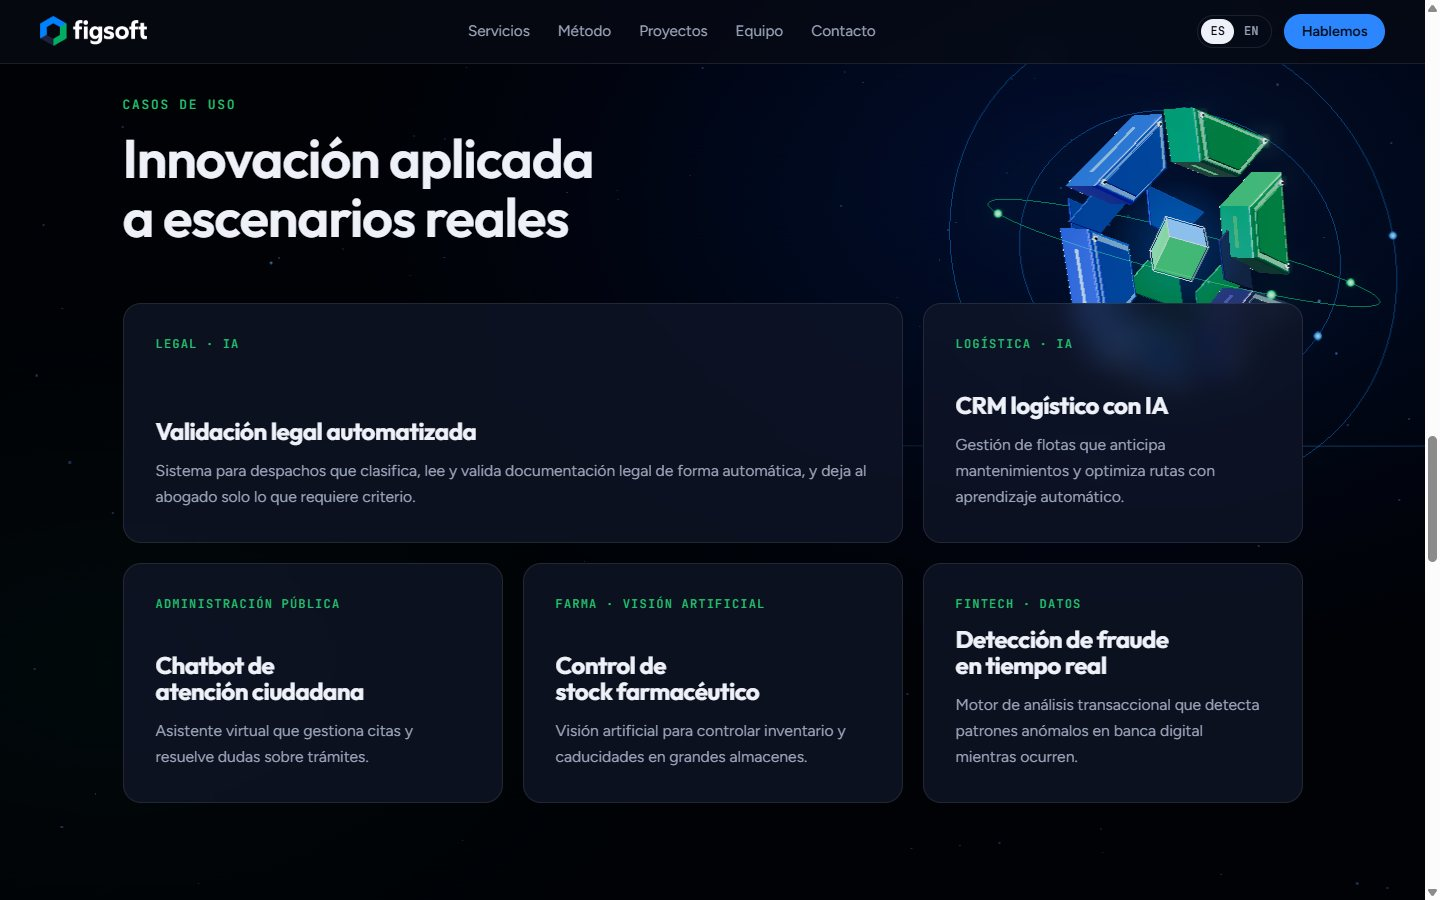
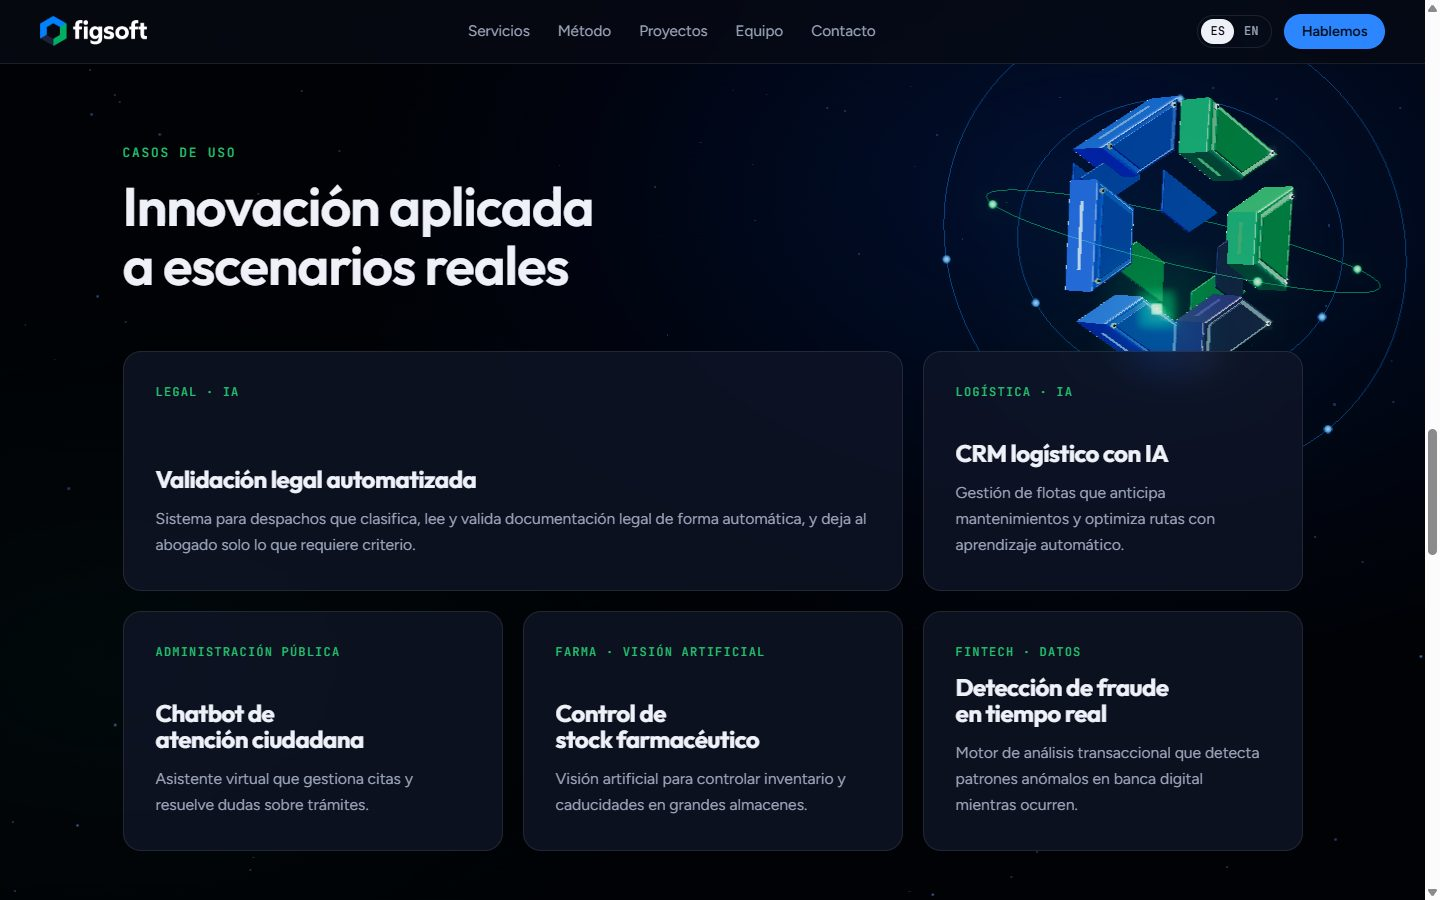
Escena 3D: quita el cubo central y rehace el ensamblado y el giro por pasos
El centro del isotipo vuelve a quedar vacío, como en el logotipo. El ensamblado
de entrada es ahora escalonado, con rebote y destello en cada pieza; el giro del
método usa un muelle y se elimina el vaivén. README y capturas actualizados.

Claude-Session: https://claude.ai/code/session_014JvWStt7UZUV3uJTwEGxxS

diff --git a/scene.js b/scene.js
@@ -1,6 +1,6 @@
 // Escena 3D de Figsoft.
 // El isotipo del logotipo se modela como un objeto físico: seis piezas biseladas con paneles,
-// tornillos y tiras de luz, y un núcleo de cristal en el centro. Alrededor, órbitas con paquetes
+// tornillos y tiras de luz. El centro queda vacío, como en el logotipo. Alrededor, órbitas con paquetes
 // de datos. El scroll no lo "da vueltas": lo coreografía, de pieza en pieza, con cada sección.
 import * as THREE from "three";
 import { EffectComposer } from "three/addons/postprocessing/EffectComposer.js";
@@ -16,6 +16,7 @@ const R = 1.32, r = 0.66, DEPTH = 0.58;
 
 const clamp = (v, a, b) => Math.min(b, Math.max(a, v));
 const lerp = (a, b, t) => a + (b - a) * t;
+const easeOutBack = (t) => 1 + 2.2 * Math.pow(t - 1, 3) + 1.2 * Math.pow(t - 1, 2);
 const ease = (t) => (t < 0.5 ? 4 * t * t * t : 1 - Math.pow(-2 * t + 2, 3) / 2);
 const damp = (a, b, k, dt) => lerp(a, b, 1 - Math.exp(-k * dt));
 
@@ -129,29 +130,6 @@ function buildMark() {
   return { rig, segs };
 }
 
-// Núcleo: un cubo isométrico con las tres caras del logotipo (azul, verde y azul marino) que brillan.
-function buildCore() {
-  const g = new THREE.Group();
-  const face = (c, k) => new THREE.MeshBasicMaterial({ color: new THREE.Color(c).multiplyScalar(k), toneMapped: false });
-  // Orden de caras de BoxGeometry: +x, -x, +y, -y, +z, -z
-  const mats = [face(GREEN, 1.7), face(NAVY, 1.1), face(BLUE, 2.4), face(NAVY, 0.8), face(BLUE, 1.5), face(GREEN, 0.9)];
-  const cube = new THREE.Mesh(new THREE.BoxGeometry(0.5, 0.5, 0.5), mats);
-  const edges = new THREE.LineSegments(new THREE.EdgesGeometry(new THREE.BoxGeometry(0.5, 0.5, 0.5)), new THREE.LineBasicMaterial({ color: 0xdcecff, transparent: true, opacity: 0.8 }));
-  const halo = new THREE.Sprite(new THREE.SpriteMaterial({ map: haloTex(), color: 0x4aa2ff, transparent: true, opacity: 0.55, depthWrite: false, blending: THREE.AdditiveBlending }));
-  halo.scale.setScalar(1.7);
-  const spin = new THREE.Group(); spin.add(cube, edges);
-  spin.rotation.set(Math.atan(1 / Math.SQRT2), Math.PI / 4, 0);
-  g.add(spin, halo);
-  return { group: g, spin, inner: cube, halo };
-}
-function haloTex() {
-  const c = document.createElement("canvas"); c.width = c.height = 128;
-  const g = c.getContext("2d"), gr = g.createRadialGradient(64, 64, 0, 64, 64, 64);
-  gr.addColorStop(0, "rgba(255,255,255,.9)"); gr.addColorStop(0.3, "rgba(255,255,255,.25)"); gr.addColorStop(1, "rgba(255,255,255,0)");
-  g.fillStyle = gr; g.fillRect(0, 0, 128, 128);
-  return new THREE.CanvasTexture(c);
-}
-
 // Órbitas con paquetes de datos que las recorren
 function buildOrbits(sprite) {
   const group = new THREE.Group();
@@ -221,9 +199,8 @@ export function initScene(canvas, { reduced }) {
   const sprite = softSprite();
   const world = new THREE.Group(); scene.add(world);
   const { rig: markRig, segs } = buildMark();
-  const core = buildCore();
-  const orbits = buildOrbits(sprite);
-  const body = new THREE.Group(); body.add(markRig, core.group);
+    const orbits = buildOrbits(sprite);
+  const body = new THREE.Group(); body.add(markRig);
   world.add(body, orbits.group);
   scene.add(buildDust(mobile ? 280 : 520, sprite));
 
@@ -265,7 +242,7 @@ export function initScene(canvas, { reduced }) {
   ] : [
     //  x     y    esc  expl  rotY   rotX   rotZ  órbitas dim
     D(3.05, 0.05, 1.0, 0, -0.3, 0.1, 0, 1, 1),         // portada: ensamblado, de tres cuartos
-    D(2.75, 0.5, 0.72, 0.9, -0.5, 0.2, 0.08, 0.8, 0.95), // servicios: se abre, una pieza por área
+    D(2.75, 0.5, 0.72, 0.55, -0.5, 0.2, 0.08, 0.8, 0.95), // servicios: se abre, una pieza por área
     D(-3.2, -1.75, 0.66, 0.12, 0.1, 0.1, 0, 0.6, 0.95),  // método: pasa a la izquierda, bajo el titular, y gira a pasos
     D(3.0, 1.35, 0.52, 0.5, 0.4, 0.14, 0, 1, 0.95),     // casos de uso: ocupa el hueco junto al titular
     D(3.2, 0.2, 0.74, 0, -0.25, 0.12, 0, 0.7, 0.85),    // tecnología
@@ -292,43 +269,41 @@ export function initScene(canvas, { reduced }) {
     const p = clamp((innerHeight * 0.62 - rc.top) / rc.height, 0, 1);
     stepRot.target = rc.bottom < innerHeight * 0.4 ? Math.PI * 2 : Math.min(3, Math.floor(p * 4 + 0.001)) * (Math.PI / 3);
   }
-  const stepRot = { v: 0, target: 0 };
+  const stepRot = { v: 0, vel: 0, target: 0 };
 
   const clock = new THREE.Clock();
-  let intro = reduced ? 1 : 0, running = true, raf = 0;
+  let intro = reduced ? 1 : 0, introT = reduced ? 9 : 0, running = true, raf = 0;
   const camBase = new THREE.Vector3();
   const pulse = (u) => Math.pow(Math.max(0, 1 - Math.abs(u) * 2.4), 3);
 
   function frame() {
     const dt = Math.min(clock.getDelta(), 0.05), t = clock.elapsedTime;
-    intro = Math.min(1, intro + dt / 2.4);
+    introT = reduced ? 9 : introT + dt;
+    intro = Math.min(1, introT / 2.8);
     const e = 1 - Math.pow(1 - intro, 4);
     computeTarget();
     const k = reduced ? 1 : 3.2;
     for (const key of Object.keys(pose)) pose[key] = reduced ? target[key] : damp(pose[key], target[key], k, dt);
-    stepRot.v = damp(stepRot.v, stepRot.target, 3.4, dt);
+    // muelle ligeramente subamortiguado: cada paso asienta con un pequeño rebote
+    stepRot.vel += ((stepRot.target - stepRot.v) * 38 - stepRot.vel * 9) * dt; stepRot.v += stepRot.vel * dt;
     mouse.sx = damp(mouse.sx, mouse.x, 3, dt); mouse.sy = damp(mouse.sy, mouse.y, 3, dt);
 
-    // Ensamblado de entrada: las piezas llegan desde fuera y encajan
-    const explode = pose.ex + (1 - e) * 1.6;
+    // Ensamblado de entrada: seis piezas, escalonadas, cada una llega girando desde su lado y encaja con un leve rebote
     segs.forEach((s, i) => {
-      const d = s.userData.dir, stagger = (i % 2 ? 1 : -1) * 0.5;
-      const local = clamp(explode, 0, 3);
-      s.position.set(d.x * local * 0.85, d.y * local * 0.85, stagger * local * 0.28);
-      s.rotation.z = (i % 2 ? 1 : -1) * local * 0.06;
-      // pulso de luz que recorre el anillo
-      const u = ((t * 0.55 - i / 6) % 1 + 1) % 1;
-      const amp = 0.4 + 1.9 * pulse(u > 0.5 ? u - 1 : u);
+      const d = s.userData.dir;
+      const p = clamp((introT - 0.25 - i * 0.2) / 1.1, 0, 1), o = 1 - easeOutBack(p);
+      const local = pose.ex + o * 3.4;
+      s.position.set(d.x * local * 0.85, d.y * local * 0.85, (i - 2.5) * 0.12 * pose.ex - o * 1.4);
+      s.rotation.set(o * (i % 2 ? 0.5 : -0.5), o * 0.4, o * (i % 2 ? 1.1 : -1.1));
+      s.scale.setScalar(lerp(0.6, 1, clamp(p * 2, 0, 1)));
+      // destello al encajar + pulso de luz que recorre el anillo después
+      const flash = Math.exp(-Math.max(0, introT - (0.25 + i * 0.2 + 1.1)) * 3.5) * (p >= 1 ? 1 : 0);
+      const u = ((t * 0.5 - i / 6) % 1 + 1) % 1;
+      const amp = 0.35 + 1.7 * pulse(u > 0.5 ? u - 1 : u) + 2.2 * flash;
       for (const st of s.userData.strips) st.material.color.set(GLOW[i]).multiplyScalar(amp);
     });
-    core.spin.rotation.y = Math.PI / 4 + t * 0.35;
-    core.spin.rotation.x = Math.atan(1 / Math.SQRT2) + Math.sin(t * 0.7) * 0.12;
-    core.inner.scale.setScalar(1 + Math.sin(t * 2.2) * 0.06); core.halo.material.opacity = 0.4 + Math.sin(t * 2.2) * 0.12;
-    core.group.position.z = (1 - e) * -2;
-    core.group.scale.setScalar(lerp(0.0001, 1, clamp(e * 1.4 - 0.2, 0, 1)));
-
-    const sway = Math.sin(t * 0.45) * 0.05;
-    body.position.set(pose.x * (1 - (1 - e) * 0.1), pose.y + Math.sin(t * 0.9) * 0.07 + (1 - e) * -0.6, (1 - e) * -3);
+    const sway = 0;
+    body.position.set(pose.x * (1 - (1 - e) * 0.1), pose.y + Math.sin(t * 0.8) * 0.035 + (1 - e) * -0.4, (1 - e) * -3);
     body.scale.setScalar(pose.s * lerp(0.85, 1, e));
     body.rotation.set(pose.rx + mouse.sy * 0.22 + sway * 0.6, pose.ry + mouse.sx * 0.38 + sway, pose.rz);
     markRig.rotation.z = stepRot.v;

diff --git a/README.md b/README.md
@@ -37,7 +37,7 @@ Una página única que presenta a Figsoft: qué servicios ofrece, cómo trabaja,
 
 | Característica | Detalle |
 |---|---|
-| Escena 3D | El isotipo del logotipo modelado en three.js, con núcleo luminoso, órbitas y bloom, coreografiado sección a sección con el scroll |
+| Escena 3D | El isotipo del logotipo modelado en three.js, con órbitas y bloom, coreografiado sección a sección con el scroll |
 | Idiomas | Español e inglés con un botón; recuerda la elección |
 | Adaptación | Escritorio, tableta y móvil, con menú propio en pantallas pequeñas |
 | Peso | Sin framework; three.js se carga desde una CDN y solo para la escena |
@@ -126,7 +126,6 @@ El isotipo no es una imagen: se modela en código como un objeto físico, pieza 
 ```mermaid
 flowchart TB
   S["Escena three.js"] --> M["Isotipo<br/>6 piezas biseladas"]
-  S --> C["Núcleo<br/>cubo de tres tonos"]
   S --> O["Órbitas<br/>3 anillos con paquetes de datos"]
   S --> L["Luces y entorno<br/>estudio con tiras de luz"]
   S --> P["Postproceso<br/>bloom solo en lo emisivo"]
@@ -141,11 +140,10 @@ flowchart TB
 | Piezas | Seis trapecios extruidos, uno por lado del hexágono, con color del logotipo (azul, verde y azul marino). Cada una tiene bisel redondeado de 7 segmentos y una holgura mínima con sus vecinas, como piezas ensambladas |
 | Materiales | Barniz de coche: capa transparente (`clearcoat`) sobre pintura ligeramente metálica. Los paneles incrustados son satinados, para que el contraste brillo / mate dibuje la forma |
 | Detalle | Paneles incrustados delante y detrás, dos tornillos por pieza con hueco hexagonal y tiras de luz en las caras exterior e interior |
-| Núcleo | Cubo isométrico con las tres caras del logotipo en azul, verde y azul marino, con borde y halo. Su silueta es la del hueco del logotipo |
 | Pulso de datos | Una onda de luz recorre las seis tiras, una pieza tras otra, como una señal que da la vuelta al anillo |
 | Órbitas | Tres anillos inclinados con paquetes de luz que los recorren a distinta velocidad |
 | Entorno | Un estudio generado en código con tiras de luz blancas, azules y verdes que se reflejan con nitidez en el barniz |
-| Postproceso | `UnrealBloomPass` con umbral alto: solo brillan las tiras, el núcleo y los paquetes, no las superficies |
+| Postproceso | `UnrealBloomPass` con umbral alto: solo brillan las tiras y los paquetes, no las superficies |
 | Suelo | Un disco de luz bajo el objeto lo asienta en la escena |
 
 ### Coreografía con el scroll
@@ -154,9 +152,9 @@ El objeto no gira sin rumbo: cada sección tiene una **pose** (posición, escala
 
 | Sección | Qué hace el objeto |
 |---|---|
-| Portada | Llega por piezas desde fuera y encaja. Queda ensamblado, de tres cuartos, y reacciona al ratón con una inclinación contenida |
-| Servicios | Se **abre**: las piezas se separan en su dirección radial y se escalonan en profundidad |
-| Método | Pasa a la **izquierda**, bajo el titular, y gira 60° con cada una de las cuatro fases, sincronizado con la línea de progreso. Al terminar completa la vuelta |
+| Portada | Las seis piezas llegan una a una, girando desde su lado, y encajan con un leve rebote y un destello en la tira de luz. El centro queda vacío, como en el logotipo. Reacciona al ratón con una inclinación contenida |
+| Servicios | Se **abre**: las piezas se separan en su dirección radial y se escalonan en profundidad, como una escalera |
+| Método | Pasa a la **izquierda**, bajo el titular, y gira 60° con cada una de las cuatro fases, sincronizado con la línea de progreso. Cada paso lo mueve un muelle que asienta con un pequeño rebote. Al terminar completa la vuelta |
 | Casos de uso | Se recoge junto al titular y las órbitas toman protagonismo |
 | Tecnología y equipo | Vuelve a la derecha, ensamblado y más pequeño |
 | Contacto | Regresa a la izquierda y se cierra frente a la cámara |
